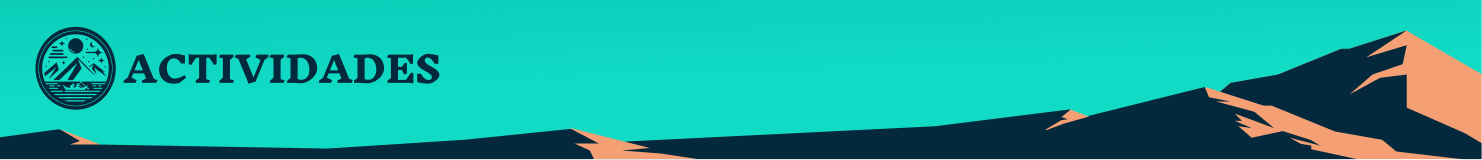
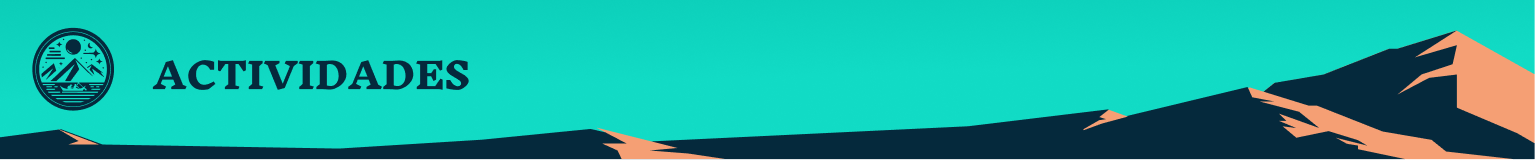
Agregando Pantalla Reservas

Changed region(s): [[0.0, 0.1562, 0.3104, 0.6875], [0.3725, 0.7812, 0.4656, 0.9688], [0.031, 0.8125, 0.0621, 0.9062]]

diff --git a/RaftRush/src/ReservasClientes.java b/RaftRush/src/ReservasClientes.java
@@ -1,0 +1,89 @@
+import com.formdev.flatlaf.themes.FlatMacDarkLaf;
+
+import javax.swing.*;
+import javax.swing.table.DefaultTableCellRenderer;
+import javax.swing.table.DefaultTableModel;
+import javax.swing.table.TableColumnModel;
+import java.awt.*;
+
+public class ReservasClientes extends JFrame{
+    private JPanel jplGeneral;
+    private JTable tblReservas;
+    private JLabel lblBG;
+    private JPanel jplTabla;
+    private DefaultTableModel model;
+
+    public ReservasClientes(){
+        setContentPane(jplGeneral);
+        background();
+        cargarDato();
+
+
+        tblReservas.setShowGrid(true);//Mostrar grid color
+
+    }
+
+    private void cargarDato(){
+        Object[][] data = new Object[2][5];
+
+        data[0][0] = "2024-05-01";
+        data[0][1] = "1";
+        data[0][2] = "12345678A";
+        data[0][3] = "50.00€";
+        data[0][4] = "Parque Multiaventura Sierra Norte";
+
+        data[1][0] = "2024-05-0";
+        data[1][1] = "2";
+        data[1][2] = "23456789B";
+        data[1][3] = "75.00€";
+        data[1][4] = "Parque de Aventura Montaña Mágica";
+
+
+
+        model = new DefaultTableModel(data, new String[]{"Nombre", "Tipo", "Localidad", "Dificultad", "Precio"});
+        tblReservas.setModel(model);
+        //Color tableBG = new Color(110, 130, 141);
+
+        tblReservas.setGridColor(Color.black);
+        tblReservas.getTableHeader().setOpaque(false);
+        tblReservas.getTableHeader().setBackground(new Color(47, 75, 89));
+        tblReservas.getTableHeader().setForeground(new Color(245, 159, 116));
+        tblReservas.getTableHeader().setFont(new Font("Inter", Font.BOLD,16));
+
+        TableColumnModel colums = tblReservas.getColumnModel();
+        colums.getColumn(4).setMinWidth(150);
+
+        DefaultTableCellRenderer centerRenderer = new DefaultTableCellRenderer();
+        centerRenderer.setHorizontalAlignment(JLabel.CENTER);
+        for (int i = 0; i < tblReservas.getColumnCount(); i++) {
+            tblReservas.getColumnModel().getColumn(i).setCellRenderer(centerRenderer);
+        }
+
+        tblReservas.getTableHeader().setReorderingAllowed(false);
+        tblReservas.setDefaultEditor(Object.class,null);
+        tblReservas.setEnabled(true);
+
+    }
+
+    private void background(){
+        ImageIcon background = new ImageIcon("resources/imagenes/cabeceraResClientes.png");
+
+        lblBG.setIcon(background);
+    }
+
+    public static void main(String[] args) {
+        FlatMacDarkLaf.setup();
+        SwingUtilities.invokeLater(new Runnable() {
+            @Override
+            public void run() {
+                JFrame frame = new ReservasClientes();
+                frame.setDefaultCloseOperation(JFrame.EXIT_ON_CLOSE);
+                frame.setSize(1480,774);
+                frame.setResizable(false);
+                frame.setLocationRelativeTo(null);
+
+                frame.setVisible(true);
+            }
+        });
+    }
+}

diff --git a/RaftRush/src/ActividadClientes.java b/RaftRush/src/ActividadClientes.java
@@ -96,6 +96,7 @@ public class ActividadClientes extends JFrame{
             @Override
             public void run() {
                 JFrame frame = new ActividadClientes();
+                frame.setDefaultCloseOperation(JFrame.EXIT_ON_CLOSE);
                 frame.setSize(1534,774);
                 frame.setResizable(false);
                 frame.setLocationRelativeTo(null);
